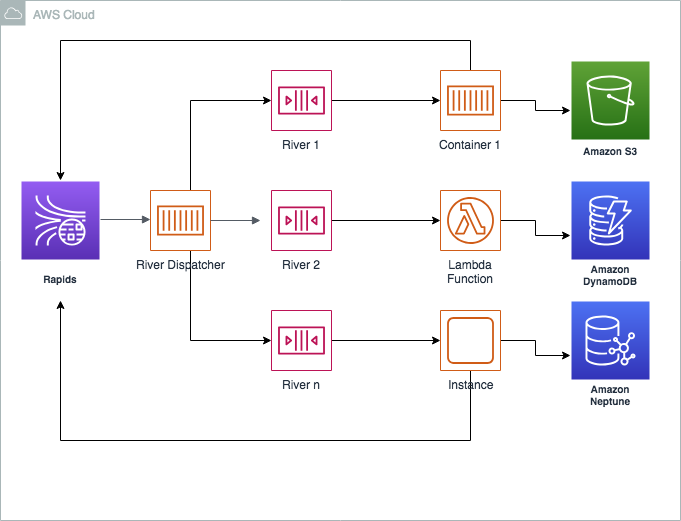
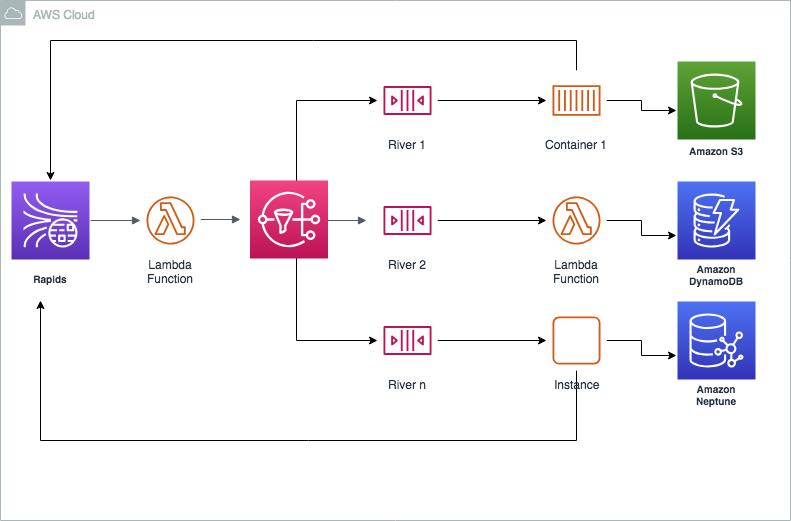
Updated docs

diff --git a/readme.md b/readme.md
@@ -6,9 +6,7 @@ Example implementation of Fred George style microservices architecture
 
 This project illustrates one way to implement the rapids, rivers, ponds approad to microservice architecture using AWS technology components.
 
-Here, we'll use Kinesis for our main event bus (rapids). We'll use a simple stream reader to pick off events and write them to various queues (rivers), with services consuming messages in the rivers. Services may persist events or data derived from events or produced by application logic in datastores of choice (ponds).
-
-We'll look at some of the subtlties in the implementation - use of different compute and database components, how we might dispatch to SNS topics for the rivers, etc.
+Here, we'll use Kinesis for our main event bus (rapids). We'll use a simple stream reader to pick off events and publish them to an SNS topic, and use filter topic subscriptions to populate SQS queues (rivers), with services consuming messages from the rivers. Services may persist events or data derived from events or produced by application logic in datastores of choice (ponds).
 
 ![](./rapids-rivers-ponds.png)
 
@@ -57,23 +55,9 @@ We'll assume a JSON event structure that includes some standard fields:
 * timestamp - ISO 8601 UTC timestamp
 * eventId - uuid
 
-## Scenario
 
-From the video, we'll ape the travel scenario where Sally views a page, and an offer engine assembles offers based on events consumed and produced by membership, segmentation, location, and brand services.
 
-For this scenario, we'll have rivers for the services and offers engine, and a single rapids. The rapids will be a Kinesis stream, the rivers SQS queues. We'll also have a river for those interested in consuming offers.
-
-The scenario is this:
-
-* An event conveying Sally is looking at a page is emitted.
-    * The location and brand services respond to the event with some baseline offer events. 
-    * The segmenation service responds to the event by emitting an event stating Sally is a Road Warrior
-    * The membership services response by emitting an event stating Sally is a Platinum member
-* The location and services emit a new offers based on Sally being a Road Warrior
-* The location service emits a new offer based on SAlly being both a Road Warrior and a Platimum member
-* The offer engine will buffer offers for some amount of time, then emit offers
-
-### Deploying Rapids and Rivers
+## Deploying Rapids and Rivers
 
 To deploy the rapids:
 
@@ -99,7 +83,7 @@ aws cloudformation create-stack --stack-name topic \
 --template-body file://cfn/topic.yml \
 --parameters ParameterKey=Stage,ParameterValue=dev
 ```
-### CLI
+## CLI
 
 Use the cli to send events and commands.
 
@@ -119,6 +103,24 @@ To send a view page event:
 ```console
 cmd > send ViewPage TheSource '{"name":"Sally"}'
 ```
+
+## Scenario
+
+In progress...
+
+From the video, we'll ape the travel scenario where Sally views a page, and an offer engine assembles offers based on events consumed and produced by membership, segmentation, location, and brand services.
+
+For this scenario, we'll have rivers for the services and offers engine, and a single rapids. The rapids will be a Kinesis stream, the rivers SQS queues. We'll also have a river for those interested in consuming offers.
+
+The scenario is this:
+
+* An event conveying Sally is looking at a page is emitted.
+    * The location and brand services respond to the event with some baseline offer events. 
+    * The segmenation service responds to the event by emitting an event stating Sally is a Road Warrior
+    * The membership services response by emitting an event stating Sally is a Platinum member
+* The location and services emit a new offers based on Sally being a Road Warrior
+* The location service emits a new offer based on SAlly being both a Road Warrior and a Platimum member
+* The offer engine will buffer offers for some amount of time, then emit offers
 
 ## Background
 
